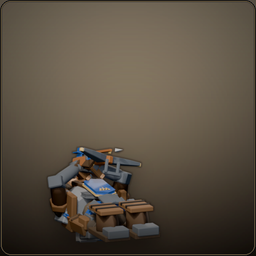
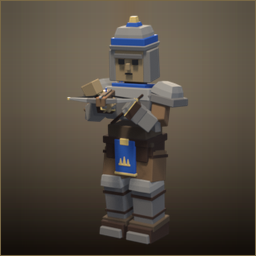
art: 弩兵图标改用 Blender 从方块人_弩兵.glb 重渲（原资产包图标是未绑骨的塌陷姿态）
- 工具/渲染单位图标.py: archer 换成 方块人/方块人_弩兵.glb，
  逐出插件探针网格（Icosphere 把包围盒撑成 2m³，机位退太远），曝光 -0.25 → +0.28
- 工具/合成单位图标.py: 底版改为从资产包图标反解（乘法可分离模型），
  采样线躲开 1px 暗边+金线；取景 0.88 → 0.90
- 产物 美术/图标/单位/archer.png 从「一坨方块」变成持弩的方块人

Changed region(s): [[0.0, 0.0, 1.0, 1.0]]

diff --git a/工具/合成单位图标.py b/工具/合成单位图标.py
@@ -24,8 +24,74 @@ OUT_DIR = os.path.join(ROOT, "美术", "图标", "单位")
 
 UNITS = ["peasant", "footman", "archer", "mage", "steam_guard"]
 OUT = 256
-BODY_RATIO = 0.88     # 人物高度占画布比例
-BOTTOM_PAD = 0.06     # 底部留白
+BODY_RATIO = 0.90     # 人物高度占画布比例（对齐美术资产包那批图标的取景）
+BOTTOM_PAD = 0.04     # 底部留白
+
+## 底版参照图：美术资产包出的那批图标（warm 渐变 + 暗角 + 金线描边）。
+## 取它的**干净边缘**（左列 / 顶行）反解出一张可分离的底版，
+## 这样新渲的图标和 peasant/footman/steam_guard 摆在一起是同一套底。
+PLATE_REF = os.path.join(ROOT, "美术", "图标", "单位", "peasant.png")
+PLATE_CACHE = os.path.join(ROOT, "_qa", "图标底版.png")
+
+
+def plate_from_reference(size=(OUT, OUT)):
+    """用参照图反解底版：plate = 角落色 × (顶行/左列 的相对亮度)。
+
+    为什么用乘法不用加法：底版是「渐变 + 暗角」的乘积关系，
+    加法会在底部中心把亮度算高 20+ 个色阶（实测 peach 底 (27,20,14) 会算成 (48,47,38)）。
+    """
+    if not os.path.exists(PLATE_REF):
+        return None
+    ref = Image.open(PLATE_REF).convert("RGB")
+    w, h = ref.size
+    if size != (w, h):
+        ref = ref.resize(size, Image.LANCZOS)
+    w, h = ref.size
+    # ★ 采样线必须躲开资产包图标自带的 1px 暗边 + 1px 金线（x<3 全是框），
+    #   否则整张底版会被解成近黑色（实测 corner 从 (88,80,68) 掉成 (34,34,36)）。
+    edge = 8
+    top = [ref.getpixel((x, edge)) for x in range(edge, w - edge)]
+    left = [ref.getpixel((edge, y)) for y in range(edge, h - edge)]
+    base = ref.getpixel((edge, edge))
+
+    def ratio(c, b):
+        return [max(0.02, c[i] / max(b[i], 1)) for i in range(3)]
+
+    fx = [ratio(c, top[0]) for c in top]
+    fy = [ratio(c, left[0]) for c in left]
+    fx = [fx[0]] * edge + fx + [fx[-1]] * edge
+    fy = [fy[0]] * edge + fy + [fy[-1]] * edge
+    fx, fy = fx[:w], fy[:h]
+    img = Image.new("RGB", (w, h))
+    px = img.load()
+    for y in range(h):
+        ry = fy[y]
+        for x in range(w):
+            rx = fx[x]
+            px[x, y] = (
+                max(0, min(255, int(base[0] * rx[0] * ry[0]))),
+                max(0, min(255, int(base[1] * rx[1] * ry[1]))),
+                max(0, min(255, int(base[2] * rx[2] * ry[2]))),
+            )
+    return img
+
+
+def plate(size=(OUT, OUT)):
+    """底版（带缓存）：_qa/图标底版.png 存在就直接用。"""
+    if os.path.exists(PLATE_CACHE):
+        try:
+            im = Image.open(PLATE_CACHE).convert("RGB")
+            if im.size == size:
+                return im
+        except Exception:
+            pass
+    im = plate_from_reference(size)
+    if im is None:
+        return None
+    os.makedirs(os.path.dirname(PLATE_CACHE), exist_ok=True)
+    im.save(PLATE_CACHE)
+    return im
+
 
 
 def backdrop(size):
@@ -84,11 +150,13 @@ def compose(key):
         tw, th = int(OUT * 0.94), max(1, int(round(bh * scale)))
     body = body.resize((tw, th), Image.LANCZOS)
 
-    canvas = backdrop((OUT, OUT))
+    canvas = plate((OUT, OUT))
+    if canvas is None:
+        # 兜底：没有参照图就走老的程序化底（暗蓝渐变 + 中心暖光）
+        canvas = vignette(backdrop((OUT, OUT)))
     x = (OUT - tw) // 2
     y = int(OUT * (1.0 - BOTTOM_PAD)) - th
     canvas.paste(body, (x, y), body)
-    canvas = vignette(canvas)
 
     # 1px 内描边（贴着画布边，和段底的金边呼应）
     d = ImageDraw.Draw(canvas)
@@ -102,11 +170,13 @@ def compose(key):
 
 
 def main():
+    want = sys.argv[1:]
     ok = 0
-    for k in UNITS:
+    todo = [k for k in UNITS if not want or k in want]
+    for k in todo:
         if compose(k):
             ok += 1
-    print("完成 %d / %d" % (ok, len(UNITS)))
+    print("完成 %d / %d" % (ok, len(todo)))
 
 
 main()

diff --git a/工具/渲染单位图标.py b/工具/渲染单位图标.py
@@ -30,16 +30,21 @@ RAW_DIR = os.path.join(ROOT, "_qa", "图标原图_单位")
 OUT_DIR = os.path.join(ROOT, "美术", "图标", "单位")
 
 UNITS = [
-    ("peasant", "农民.glb"),
+    ("peasant", "方块人/方块人_农民.glb"),
     ("footman", "方块人/方块人_联盟步兵.glb"),
-    ("archer", "弓箭手.glb"),
+    ("archer", "方块人/方块人_弩兵.glb"),
     ("mage", "法师.glb"),
     ("steam_guard", "步兵.glb"),
 ]
 
+## 除 glb 自带的 unit_* 三块网格外，场景里多出来的网格一律删掉。
+## （Blender 装了建模类插件后 `import_scene.gltf` 会顺手塞一个 Icosphere 探针，
+##  它把包围盒撑成 2m³ → 机位按 2.7m 身高退到 8.6m，人只占画面一半。）
+_KEEP_MESH = ("unit_body", "unit_team", "unit_trim")
+
 SS = 512
 OUT = 256
-AZ_DEG = 34.0
+AZ_DEG = -32.0
 EL_DEG = 10.0
 FOCAL = 62.0
 MARGIN = 1.06
@@ -54,6 +59,11 @@ def _import(rel):
     if not os.path.exists(path):
         return None
     bpy.ops.import_scene.gltf(filepath=path)
+    # 插件探针（Icosphere 等）会污染包围盒，逐出
+    for ob in list(bpy.context.scene.objects):
+        if ob.type == 'MESH' and ob.name not in _KEEP_MESH:
+            print("  逐出杂项网格", ob.name)
+            bpy.data.objects.remove(ob, do_unlink=True)
     objs = [o for o in bpy.context.scene.objects if o.type == 'MESH']
     if not objs:
         return None
@@ -135,7 +145,7 @@ def _render():
     try:
         sc.view_settings.view_transform = 'Standard'
         sc.view_settings.look = 'None'
-        sc.view_settings.exposure = -0.25
+        sc.view_settings.exposure = 0.28
     except Exception:
         pass
 
